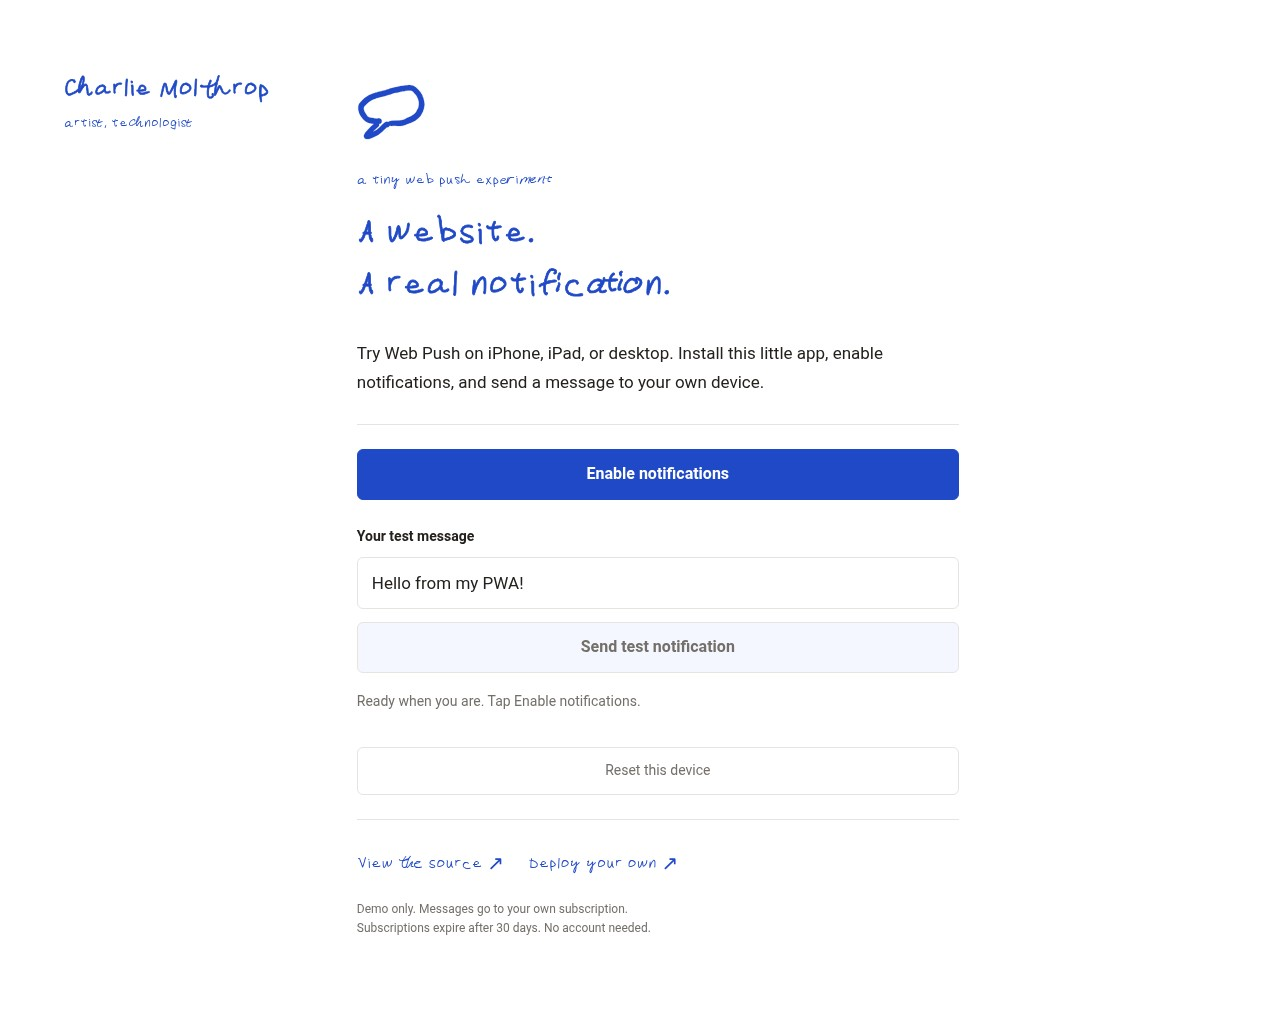
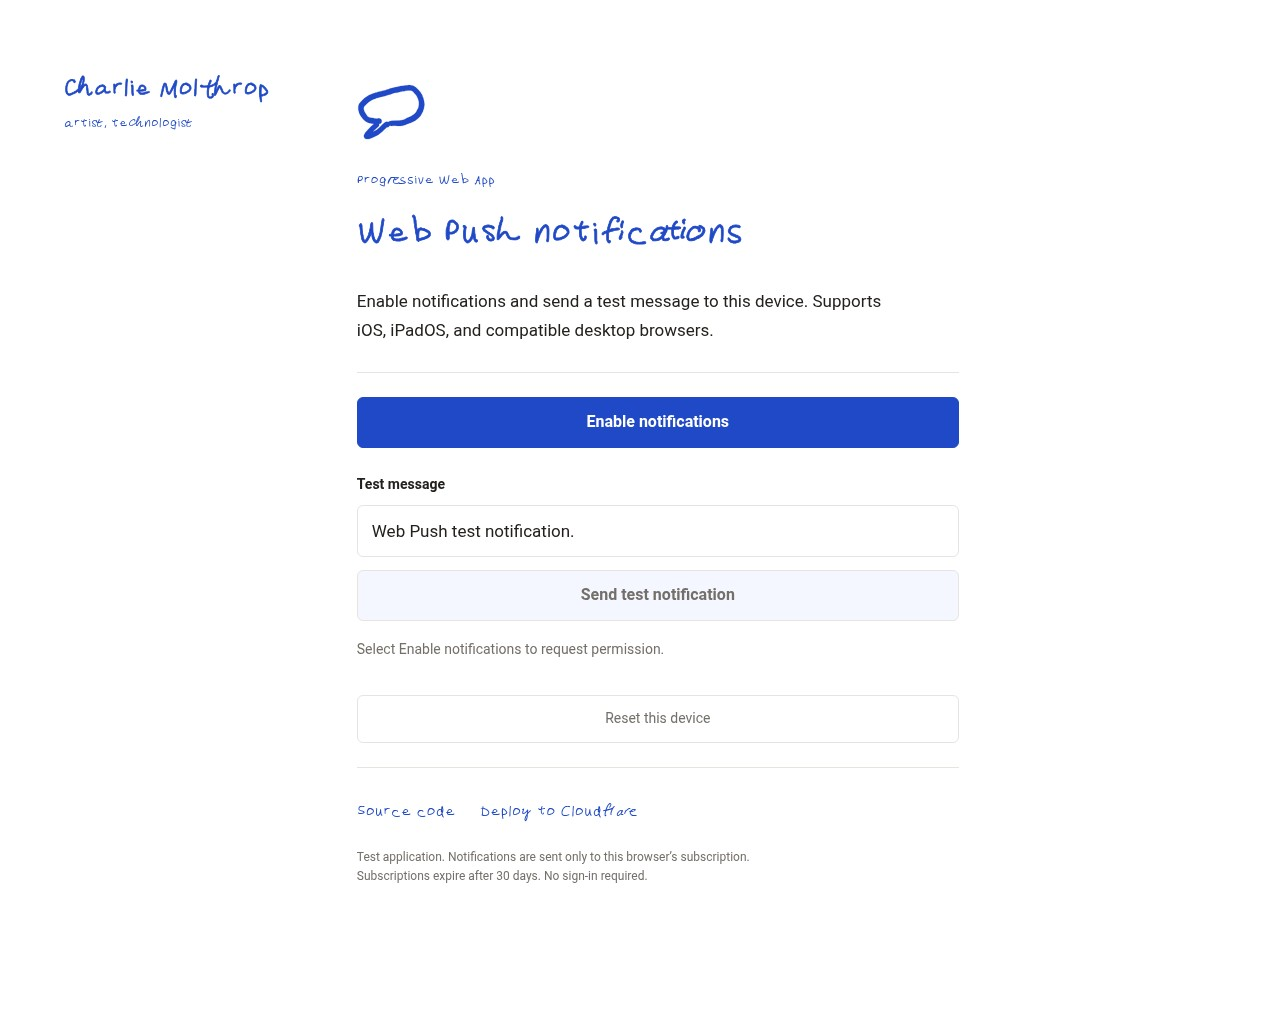
Use technical copy and remove decorative arrows

diff --git a/src/index.html b/src/index.html
@@ -6,11 +6,11 @@
   <meta name="theme-color" content="#ffffff">
   <meta name="apple-mobile-web-app-capable" content="yes">
   <title>iOS PWA Push Notifications Demo | Cloudflare Workers</title>
-  <meta name="description" content="Try real Web Push notifications on iPhone, iPad, and desktop. Install this open-source PWA, send yourself a test, or deploy your own on Cloudflare Workers.">
+  <meta name="description" content="Test Web Push notifications on iOS, iPadOS, and desktop browsers. Source code and Cloudflare Workers deployment configuration are available on GitHub.">
   <link rel="canonical" href="__CANONICAL_URL__">
   <meta property="og:type" content="website">
   <meta property="og:title" content="iOS PWA Push Notifications Demo">
-  <meta property="og:description" content="An installable web app. A real notification. Try it, view the source, or deploy your own on Cloudflare Workers.">
+  <meta property="og:description" content="An installable Progressive Web App for testing Web Push notifications, with source code and Cloudflare Workers deployment configuration.">
   <meta property="og:url" content="__CANONICAL_URL__">
   <meta property="og:image" content="__CANONICAL_URL__icon-512.png">
   <meta name="twitter:card" content="summary">
@@ -37,24 +37,24 @@
 <header class="site-brand"><a class="site-name" href="https://charliemolthrop.com/">Charlie Molthrop</a><p class="site-kicker">artist, technologist</p></header>
 <main>
   <div class="mark" aria-hidden="true"></div>
-  <p class="eyebrow">a tiny web push experiment</p>
-  <h1>A website.<br>A real notification.</h1>
-  <p class="lede">Try Web Push on iPhone, iPad, or desktop. Install this little app, enable notifications, and send a message to your own device.</p>
+  <p class="eyebrow">Progressive Web App</p>
+  <h1>Web Push notifications</h1>
+  <p class="lede">Enable notifications and send a test message to this device. Supports iOS, iPadOS, and compatible desktop browsers.</p>
   <div id="install">
     <strong>On iPhone or iPad (iOS 16.4+)</strong>
     <ol><li>Open this page in Safari.</li><li>Tap Share, then <strong>Add to Home Screen</strong>.</li><li>Open the app from its new Home Screen icon.</li></ol>
   </div>
   <section class="card" aria-label="Notification test">
     <button id="enable" disabled>Enable notifications</button>
-    <label for="message">Your test message</label>
-    <input id="message" maxlength="140" value="Hello from my PWA!" autocomplete="off">
+    <label for="message">Test message</label>
+    <input id="message" maxlength="140" value="Web Push test notification." autocomplete="off">
     <button id="send" disabled>Send test notification</button>
-    <p id="status" role="status" aria-live="polite">Getting ready…</p>
+    <p id="status" role="status" aria-live="polite">Initializing notification service...</p>
     <button id="reset" class="secondary">Reset this device</button>
   </section>
   <footer>
-    <div class="links"><a href="https://github.com/dcm31/iOS-PWA" target="_blank" rel="noopener">View the source ↗</a><a href="https://deploy.workers.cloudflare.com/?url=https://github.com/dcm31/iOS-PWA" target="_blank" rel="noopener">Deploy your own ↗</a></div>
-    <p class="small">Demo only. Messages go to your own subscription.<br>Subscriptions expire after 30 days. No account needed.</p>
+    <div class="links"><a href="https://github.com/dcm31/iOS-PWA" target="_blank" rel="noopener">Source code</a><a href="https://deploy.workers.cloudflare.com/?url=https://github.com/dcm31/iOS-PWA" target="_blank" rel="noopener">Deploy to Cloudflare</a></div>
+    <p class="small">Test application. Notifications are sent only to this browser’s subscription.<br>Subscriptions expire after 30 days. No sign-in required.</p>
   </footer>
 </main>
 </body>

diff --git a/src/app.js b/src/app.js
@@ -73,7 +73,7 @@ async function start() {
     const sub = await registration.pushManager.getSubscription();
     const subscribed = !!sub && session.subscribed && Notification.permission === 'granted';
     buttons(subscribed);
-    status(subscribed ? 'Ready. Send yourself a notification.' : 'Ready when you are. Tap Enable notifications.');
+    status(subscribed ? 'Notifications enabled. You can send a test notification.' : 'Select Enable notifications to request permission.');
   } catch (error) { status(error.message, true); }
 }
 
@@ -83,14 +83,14 @@ $('enable').addEventListener('click', async () => {
   busy = true; buttons(false);
   let subscribed = false;
   try {
-    if (await permissionPromise !== 'granted') throw new Error('Permission was not granted. Check this app in Settings → Notifications.');
+    if (await permissionPromise !== 'granted') throw new Error('Permission was not granted. Check this app in Settings under Notifications.');
     if (session.expires <= Date.now()) await prepareSession();
     let sub = await registration.pushManager.getSubscription();
     if (sub) await sub.unsubscribe();
     sub = await registration.pushManager.subscribe({ userVisibleOnly: true, applicationServerKey: bytes(session.publicKey) });
     await api('subscribe', { subscription: sub.toJSON() });
     subscribed = true;
-    status('Notifications enabled. Send yourself a test.');
+    status('Notifications enabled. You can send a test notification.');
   } catch (error) { status(error.message, true); }
   finally { busy = false; buttons(subscribed); }
 });

diff --git a/src/service-worker.js b/src/service-worker.js
@@ -1,10 +1,10 @@
 self.addEventListener('install', () => self.skipWaiting());
 self.addEventListener('activate', event => event.waitUntil(self.clients.claim()));
 self.addEventListener('push', event => {
-  let data = { title: 'Hello from your PWA', body: 'Your test notification arrived.' };
+  let data = { title: 'Web Push test', body: 'Test notification received.' };
   try { if (event.data) data = event.data.json(); } catch { /* Always show a visible fallback. */ }
-  event.waitUntil(self.registration.showNotification(data.title || 'Hello from your PWA', {
-    body: data.body || 'Your test notification arrived.', icon: new URL('icon-192.png', self.registration.scope).href, tag: 'ios-pwa-test',
+  event.waitUntil(self.registration.showNotification(data.title || 'Web Push test', {
+    body: data.body || 'Test notification received.', icon: new URL('icon-192.png', self.registration.scope).href, tag: 'ios-pwa-test',
   }));
 });
 self.addEventListener('notificationclick', event => {

diff --git a/src/worker.ts b/src/worker.ts
@@ -57,7 +57,7 @@ export class PushSession extends DurableObject<Env> {
     const { keys, subscription } = reserved.session;
     const endpoint = validateEndpoint(subscription!.endpoint);
     const payload = await buildPushPayload({
-      data: JSON.stringify({ title: 'Hello from your PWA', body: message }),
+      data: JSON.stringify({ title: 'Web Push test', body: message }),
       options: { ttl: 60, urgency: 'normal' },
     }, subscription!, { ...keys, subject });
     let response: Response;

diff --git a/README.md b/README.md
@@ -1,6 +1,6 @@
 # iOS PWA push notifications
 
-**[Try the live demo](https://charliemolthrop.com/ios-push-pwa-example/)** · **[Original Val Town source](./index.ts)**
+**[Live notification test](https://charliemolthrop.com/ios-push-pwa-example/)** · **[Original Val Town source](./index.ts)**
 
 [![Deploy to Cloudflare](https://deploy.workers.cloudflare.com/button)](https://deploy.workers.cloudflare.com/?url=https://github.com/dcm31/iOS-PWA)
 
@@ -8,19 +8,19 @@
 
 [Mobile screenshot](./docs/screenshot-mobile.jpg)
 
-A small installable web app that sends an encrypted Web Push notification to your own device. The live demo links back here; the button creates a copy in your own GitHub/Cloudflare account.
+An installable Progressive Web App that sends encrypted Web Push notifications to the subscribed device. The application links to this repository. The deployment button creates a copy in the selected GitHub and Cloudflare accounts.
 
-## Try it on your iPhone or iPad
+## iPhone and iPad installation
 
 1. Use **iOS/iPadOS 16.4 or later** and open the live demo in Safari.
-2. Tap **Share → Add to Home Screen**.
+2. Tap **Share**, then **Add to Home Screen**.
 3. Launch the app from its Home Screen icon.
 4. Tap **Enable notifications**, then allow the permission prompt.
 5. Enter a message and tap **Send test notification**. Check Notification Center and Focus settings if it is silent.
 
-Compatible desktop browsers can also try the page directly. The demo supports Apple, Google/Chrome, and Mozilla/Firefox push endpoints. A successful send means the push service accepted it, not that the device displayed it.
+Compatible desktop browsers can use the page without installation. The demo supports Apple, Google/Chrome, and Mozilla/Firefox push endpoints. A successful send means the push service accepted it, not that the device displayed it.
 
-## Deploy your own
+## Deployment
 
 Click **Deploy to Cloudflare** above, choose your repository and Worker name, and complete Cloudflare's deployment flow. Use the detected **`npm run deploy`** command. The root `cloudflare.config.ts` declares the Worker and SQLite-backed Durable Objects; `cf deploy` provisions them. No keys or storage IDs need to be copied from this demo.
 
@@ -38,7 +38,7 @@ npx cf auth login
 npm run deploy
 ```
 
-Choose your own Cloudflare account. The repository contains no account ID or credentials. Change `name` in `cloudflare.config.ts` if you want a different local deployment name; Workers Builds can override it when deploying a remix. Cloudflare's normal usage limits and charges apply.
+Select the Cloudflare account for the deployment. The repository contains no account ID or credentials. Change `name` in `cloudflare.config.ts` if you want a different local deployment name; Workers Builds can override it when deploying a remix. Cloudflare's normal usage limits and charges apply.
 
 ## Custom paths and styling
 
@@ -50,9 +50,9 @@ The standalone [workers.dev demo](https://ios-pwa.charliemolthrop.workers.dev) r
 
 The design uses Charlie’s [Fullerfont](https://github.com/dcm31/myfont) and the existing [hand-drawn speech-bubble icon](https://dcm31--207685866ff511f1a5b41607ee4eb77e.web.val.run/icon/bubble.svg) from [his site](https://charliemolthrop.com/). They are bundled locally, including PNG Home Screen icons. The page follows the site’s blue-on-white and gold-on-dark palette. These assets retain their existing ownership; this repository does not grant a new license for them.
 
-Pages include a descriptive title, description, canonical URL, Open Graph metadata, and a social preview icon. Canonical and social URLs use each deployment’s own origin and path. Screenshots show the actual deployed UI: desktop on the standalone Worker, mobile on the personal-domain route. The mobile image is browser emulation, not proof of physical iOS delivery. The personal-domain app also reached “Ready” in a local desktop browser after service-worker registration; the remote screenshot browser received a 403 for that registration, so it was not used as desktop readiness evidence.
+Pages include a descriptive title, description, canonical URL, Open Graph metadata, and a social preview icon. Canonical and social URLs use each deployment’s own origin and path. Screenshots show the actual deployed UI: desktop on the standalone Worker, mobile on the personal-domain route. The mobile image is browser emulation, not proof of physical iOS delivery. The personal-domain app also completed initialization in a local desktop browser after service-worker registration; the remote screenshot browser received a 403 for that registration, so it was not used as desktop readiness evidence.
 
-## How the Workers version works
+## Worker architecture
 
 `src/worker.ts` serves the page, manifest, icons, service worker, and API. Each installation gets a random bearer token and its own Durable Object. The object generates a new VAPID keypair using Web Crypto and keeps the private key and subscription in its own storage. `@block65/webcrypto-web-push` 2.0.0 builds the encrypted `aes128gcm` payload and VAPID authentication accepted by Apple. The service worker displays the notification.
 
@@ -60,7 +60,7 @@ The token stays in that browser's local storage and authorizes only its own subs
 
 Basic abuse controls include HTTPS push-provider allowlisting, blocked redirects, subscription key validation, same-origin POSTs, bounded request/message sizes, 30 API requests/minute and 5 new sessions/hour per IP, and a 10-second send cooldown per installation. Expired subscriptions are removed when a push service returns 404/410.
 
-This remains a **public demo, not a production notification system**. The token is a capability, not a user account; anyone who obtains it can act on that installation. There is no identity verification, endpoint-ownership challenge, distributed bot defense, or delivery guarantee. Shared-IP limits can affect unrelated visitors. In particular, visitors to the personal-domain demo share the Val proxy’s egress IP, so its 30 API requests/minute and 5 new sessions/hour limits are shared across those visitors. The standalone Worker applies them to connecting client IPs. The 10-second send cooldown remains per installation. Do not use it for sensitive messages or expose a broadcast feature without additional controls.
+This is a **public test application with security limitations**. The token is a capability, not a user account; anyone who obtains it can act on that installation. There is no identity verification, endpoint-ownership challenge, distributed bot defense, or delivery guarantee. Shared-IP limits can affect unrelated visitors. In particular, visitors to the personal-domain demo share the Val proxy’s egress IP, so its 30 API requests/minute and 5 new sessions/hour limits are shared across those visitors. The standalone Worker applies them to connecting client IPs. The 10-second send cooldown remains per installation. Do not use it for sensitive messages or expose a broadcast feature without additional controls.
 
 ## Original Val Town version
 
